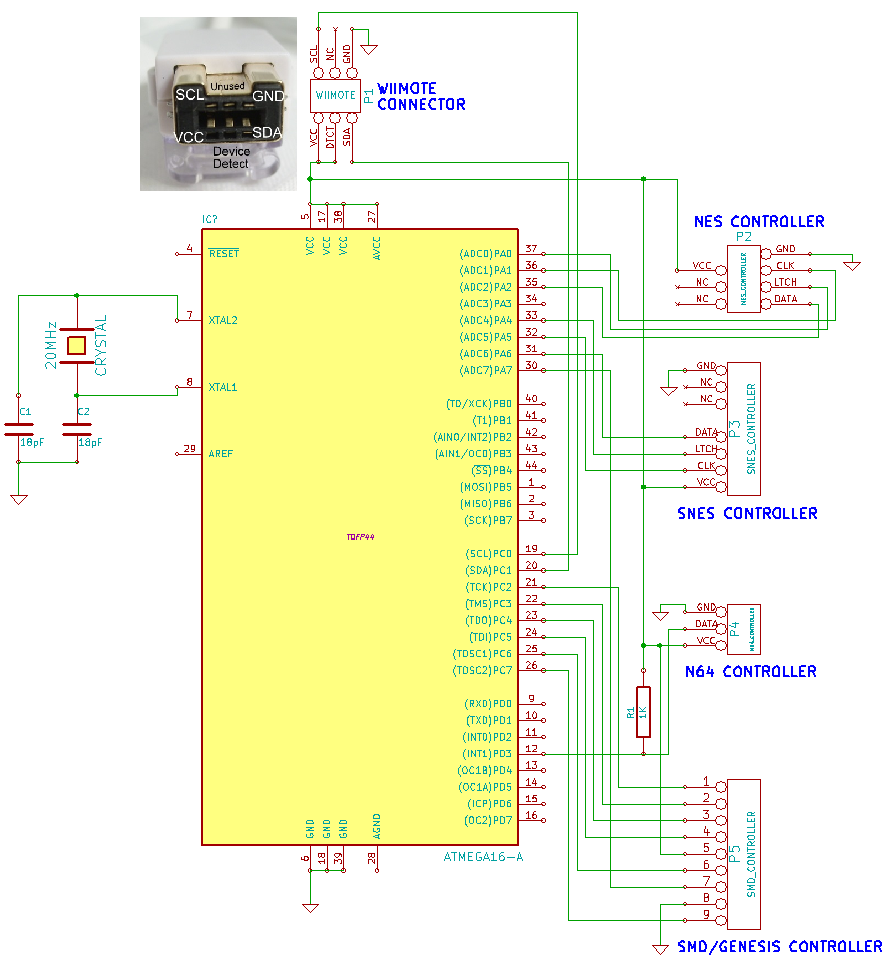
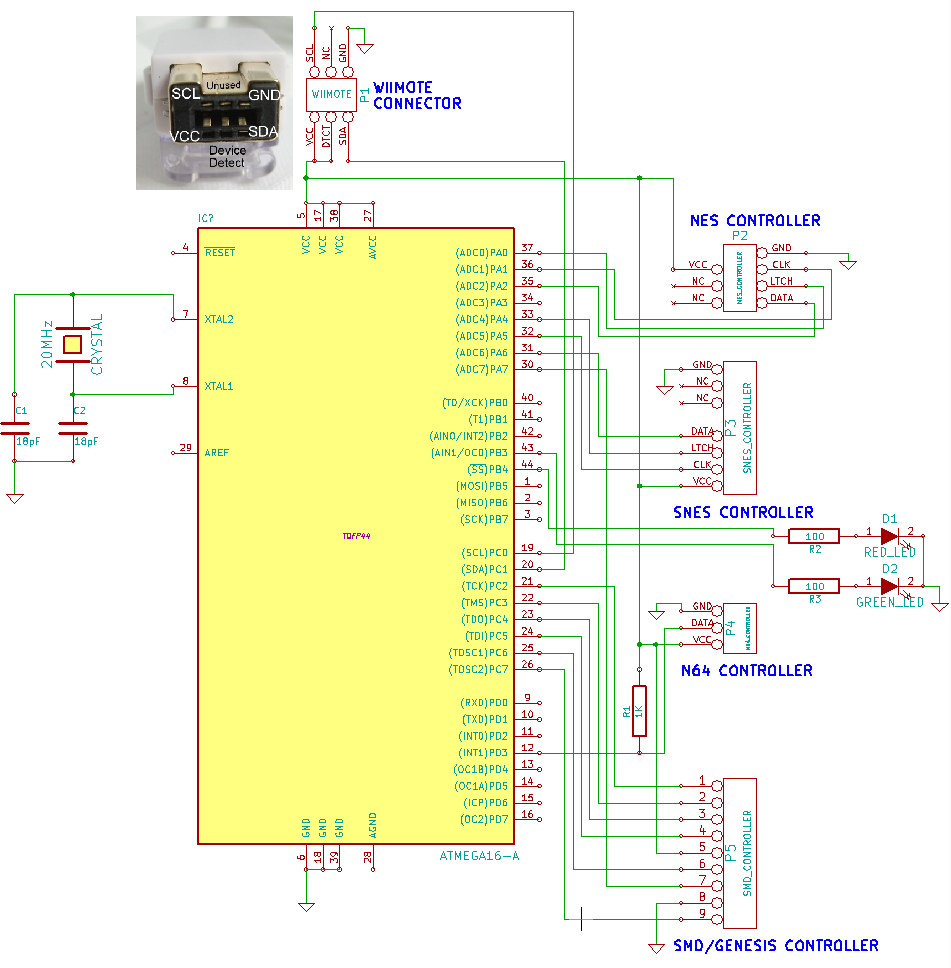
New schematics (leds)

diff --git a/wiimote.c b/wiimote.c
@@ -1,5 +1,6 @@
 #include "wiimote.h"
 #include "wm_crypto.h"
+#include "nes2wii.h"
 
 // pointer to user function
 static void (*wm_sample_event)();
